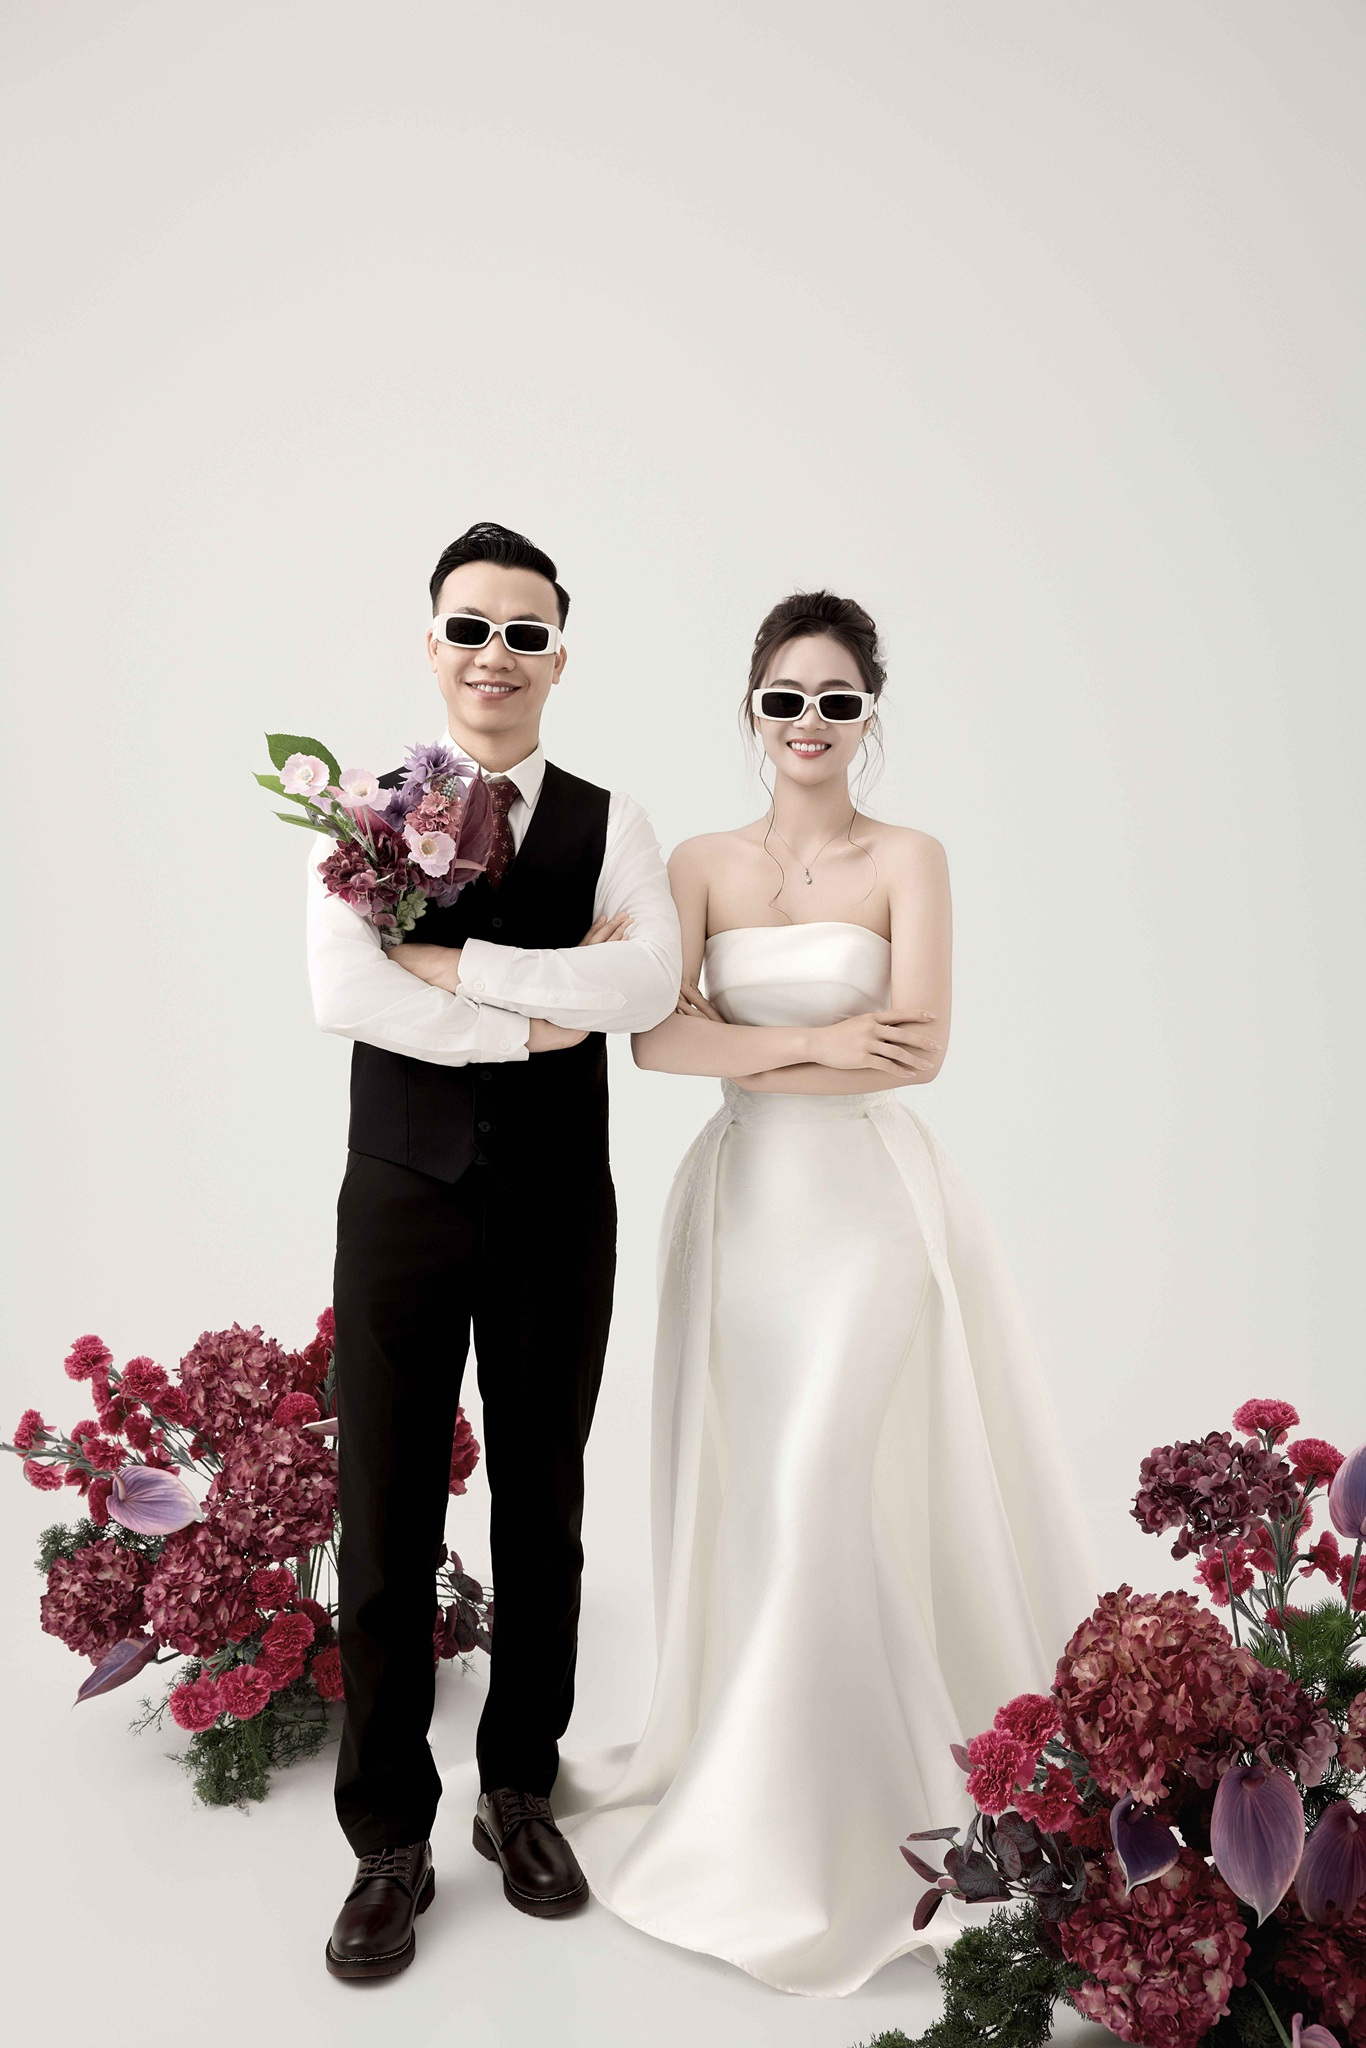
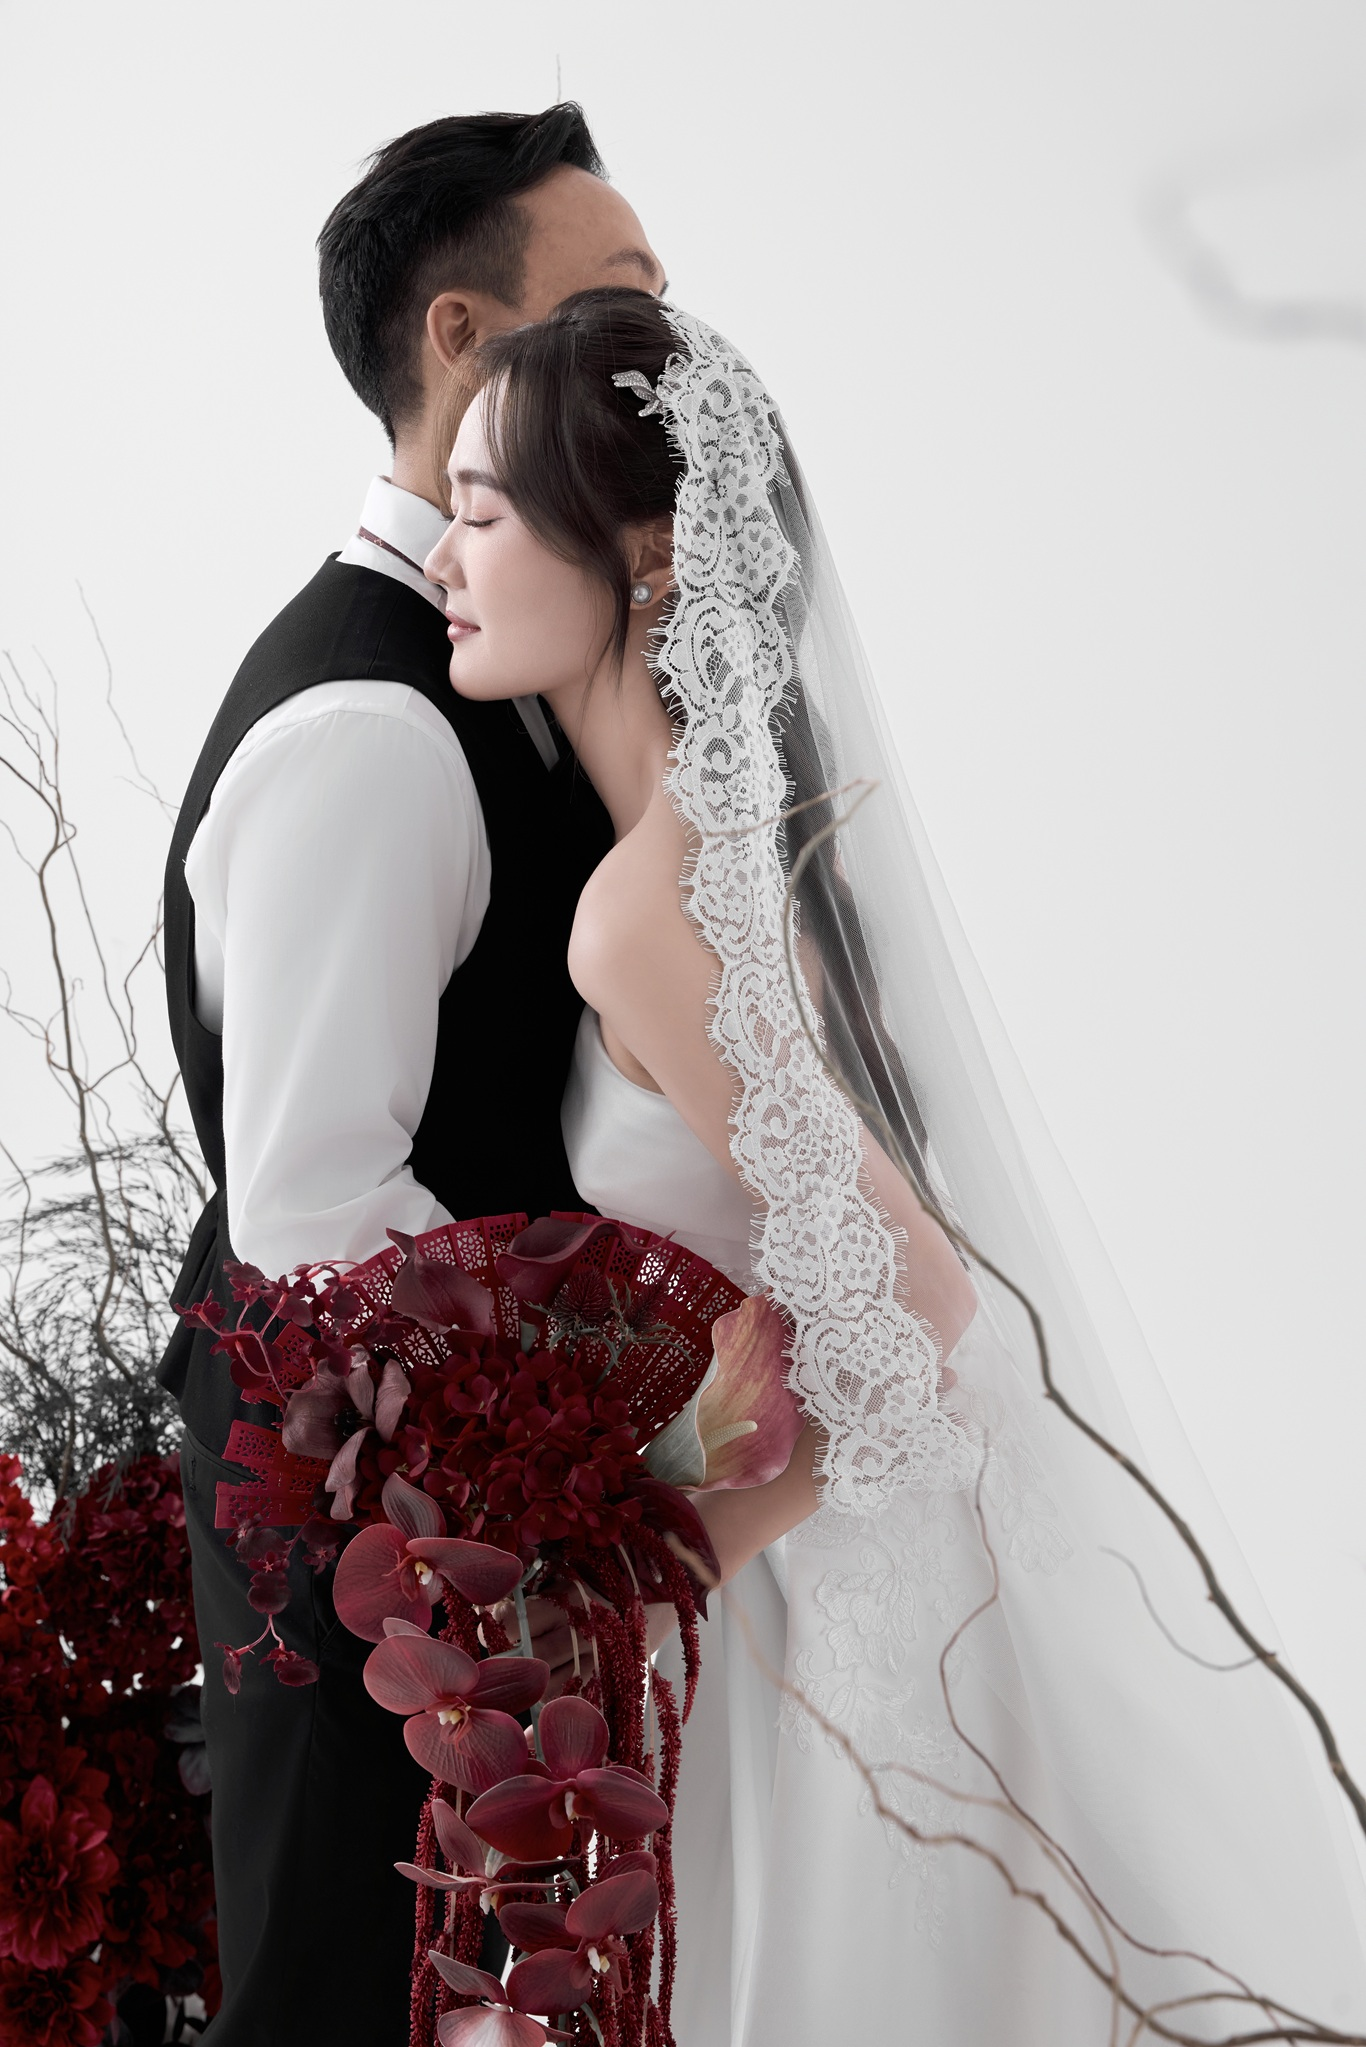
Sua anh

diff --git a/index.html b/index.html
@@ -11,9 +11,9 @@
   <meta charset="UTF-8">
   <meta name="viewport" content="width=device-width, initial-scale=1.0">
   <!-- Meta Tag cơ bản -->
-  <title>ThiepCuoiE.com | Thiệp Cưới Điện Tử - Thiệp Cưới Online</title>
+  <title>Thư mời thiệp cưới Khánh & Trang</title>
   <meta name="description"
-    content="Nền tảng tạo thiệp cưới online và thiệp cưới điện tử (e-invitation) sang trọng, độc bản. Thiết kế thiệp cưới dễ dàng, hiện đại và tinh tế cùng thiepcuoie.com.">
+    content="Sự hiện diện của quý vị là niềm vinh hạnh và lời chúc phúc quý báu nhất đối với gia đình chúng tôi.">
   <meta name="keywords"
     content="thiệp cưới online, thiệp cưới điện tử, tạo thiệp cưới, thiệp cưới điện tử sang trọng, thiệp cưới độc bản, thiepcuoie.com">
 
@@ -26,14 +26,14 @@
   <meta property="og:type" content="website">
   <link rel="canonical" href="https://thiepcuoie.com">
   <meta property="og:url" content="https://thiepcuoie.com">
-  <meta property="og:title" content="thiepcuoie.com - Tạo Thiệp Cưới Online & Thiệp Điện Tử Sang Trọng, Độc Bản">
+  <meta property="og:title" content="Thư mời thiệp cưới Khánh & Trang">
   <meta property="og:description"
-    content="Nền tảng tạo thiệp cưới online và thiệp cưới điện tử (e-invitation) sang trọng, độc bản. Thiết kế thiệp cưới dễ dàng, hiện đại và tinh tế cùng thiepcuoie.com.">
+    content="Sự hiện diện của quý vị là niềm vinh hạnh và lời chúc phúc quý báu nhất đối với gia đình chúng tôi.">
   <meta property="og:image" content="https://thiepcuoie.com/images/share-preview.jpg">
   <meta property="og:image:type" content="image/jpeg">
   <meta property="og:image:width" content="1200">
   <meta property="og:image:height" content="630">
-  <meta property="og:image:alt" content="thiepcuoie.com - Tạo Thiệp Cưới Online">
+  <meta property="og:image:alt" content="Thư mời thiệp cưới Khánh & Trang">
 
   <!-- Google Fonts: 'Great Vibes' (Uốn lượn), 'Playfair Display' (Cổ điển sang trọng), 'Montserrat' (Hiện đại) -->
   <link rel="preconnect" href="https://fonts.googleapis.com">
@@ -180,11 +180,11 @@
   {
     "@context": "https://schema.org",
     "@type": "SoftwareApplication",
-    "name": "thiepcuoie.com",
+    "name": "Thư mời thiệp cưới Khánh & Trang",
     "applicationCategory": "DesignApplication",
     "operatingSystem": "Web",
     "url": "https://thiepcuoie.com",
-    "description": "Nền tảng tạo thiệp cưới online và thiệp cưới điện tử (e-invitation) sang trọng, độc bản.",
+    "description": "Sự hiện diện của quý vị là niềm vinh hạnh và lời chúc phúc quý báu nhất đối với gia đình chúng tôi.",
     "provider": {
       "@type": "Organization",
       "name": "thiepcuoie.com",
@@ -1275,13 +1275,16 @@
             <i class="fa-regular fa-comment-heart text-roseGold"></i> Sổ Lưu Bút Yêu Thương
           </h3>
           <span id="wishes-count"
-            class="text-xs uppercase tracking-wider text-slateMuted bg-warmBeige px-3 py-1 rounded-full">Đang tải...</span>
+            class="text-xs uppercase tracking-wider text-slateMuted bg-warmBeige px-3 py-1 rounded-full">Đang
+            tải...</span>
         </div>
 
         <!-- Template mẫu thẻ lời chúc chuẩn (chuẩn UI/UX thiệp cưới) -->
         <template id="wish-card-template">
-          <div class="bg-white p-4 sm:p-5 rounded-2xl border border-beigeLight shadow-sm flex items-start gap-4 hover:border-champagne/40 transition-colors">
-            <div class="wish-avatar w-10 h-10 rounded-full bg-warmBeige text-champagneDark font-bold flex items-center justify-center flex-shrink-0 border border-champagne/30 text-sm shadow-sm">
+          <div
+            class="bg-white p-4 sm:p-5 rounded-2xl border border-beigeLight shadow-sm flex items-start gap-4 hover:border-champagne/40 transition-colors">
+            <div
+              class="wish-avatar w-10 h-10 rounded-full bg-warmBeige text-champagneDark font-bold flex items-center justify-center flex-shrink-0 border border-champagne/30 text-sm shadow-sm">
               K
             </div>
             <div class="flex-1 min-w-0">
@@ -1293,11 +1296,13 @@
                 </span>
               </div>
               <div class="wish-tag-wrap flex flex-wrap items-center gap-1 mb-2">
-                <span class="wish-tag inline-block text-[10px] px-2 py-0.5 rounded-full bg-warmBeige text-champagneDark font-medium">
+                <span
+                  class="wish-tag inline-block text-[10px] px-2 py-0.5 rounded-full bg-warmBeige text-champagneDark font-medium">
                   <i class="fa-solid fa-heart text-[8px] mr-1 text-roseGold"></i>Khách mời chúc phúc
                 </span>
               </div>
-              <p class="wish-message text-sm text-slateMuted leading-relaxed whitespace-pre-line">Lời chúc yêu thương...</p>
+              <p class="wish-message text-sm text-slateMuted leading-relaxed whitespace-pre-line">Lời chúc yêu thương...
+              </p>
             </div>
           </div>
         </template>
@@ -1305,11 +1310,14 @@
         <!-- Danh sách lời chúc hiển thị từ API -->
         <div id="wishes-feed" class="space-y-4 max-h-[480px] overflow-y-auto pr-2 custom-scrollbar">
           <!-- Trạng thái đang tải ban đầu (Loading State) -->
-          <div id="wishes-loading" class="text-center py-10 text-slateMuted flex flex-col items-center justify-center gap-2.5">
-            <div class="w-10 h-10 rounded-full bg-warmBeige text-champagneDark flex items-center justify-center border border-champagne/30 animate-spin">
+          <div id="wishes-loading"
+            class="text-center py-10 text-slateMuted flex flex-col items-center justify-center gap-2.5">
+            <div
+              class="w-10 h-10 rounded-full bg-warmBeige text-champagneDark flex items-center justify-center border border-champagne/30 animate-spin">
               <i class="fa-solid fa-circle-notch text-lg"></i>
             </div>
-            <p class="text-xs uppercase tracking-wider text-champagneDark font-medium">Đang tải lời chúc từ khách mời...</p>
+            <p class="text-xs uppercase tracking-wider text-champagneDark font-medium">Đang tải lời chúc từ khách mời...
+            </p>
           </div>
         </div>
       </div>
